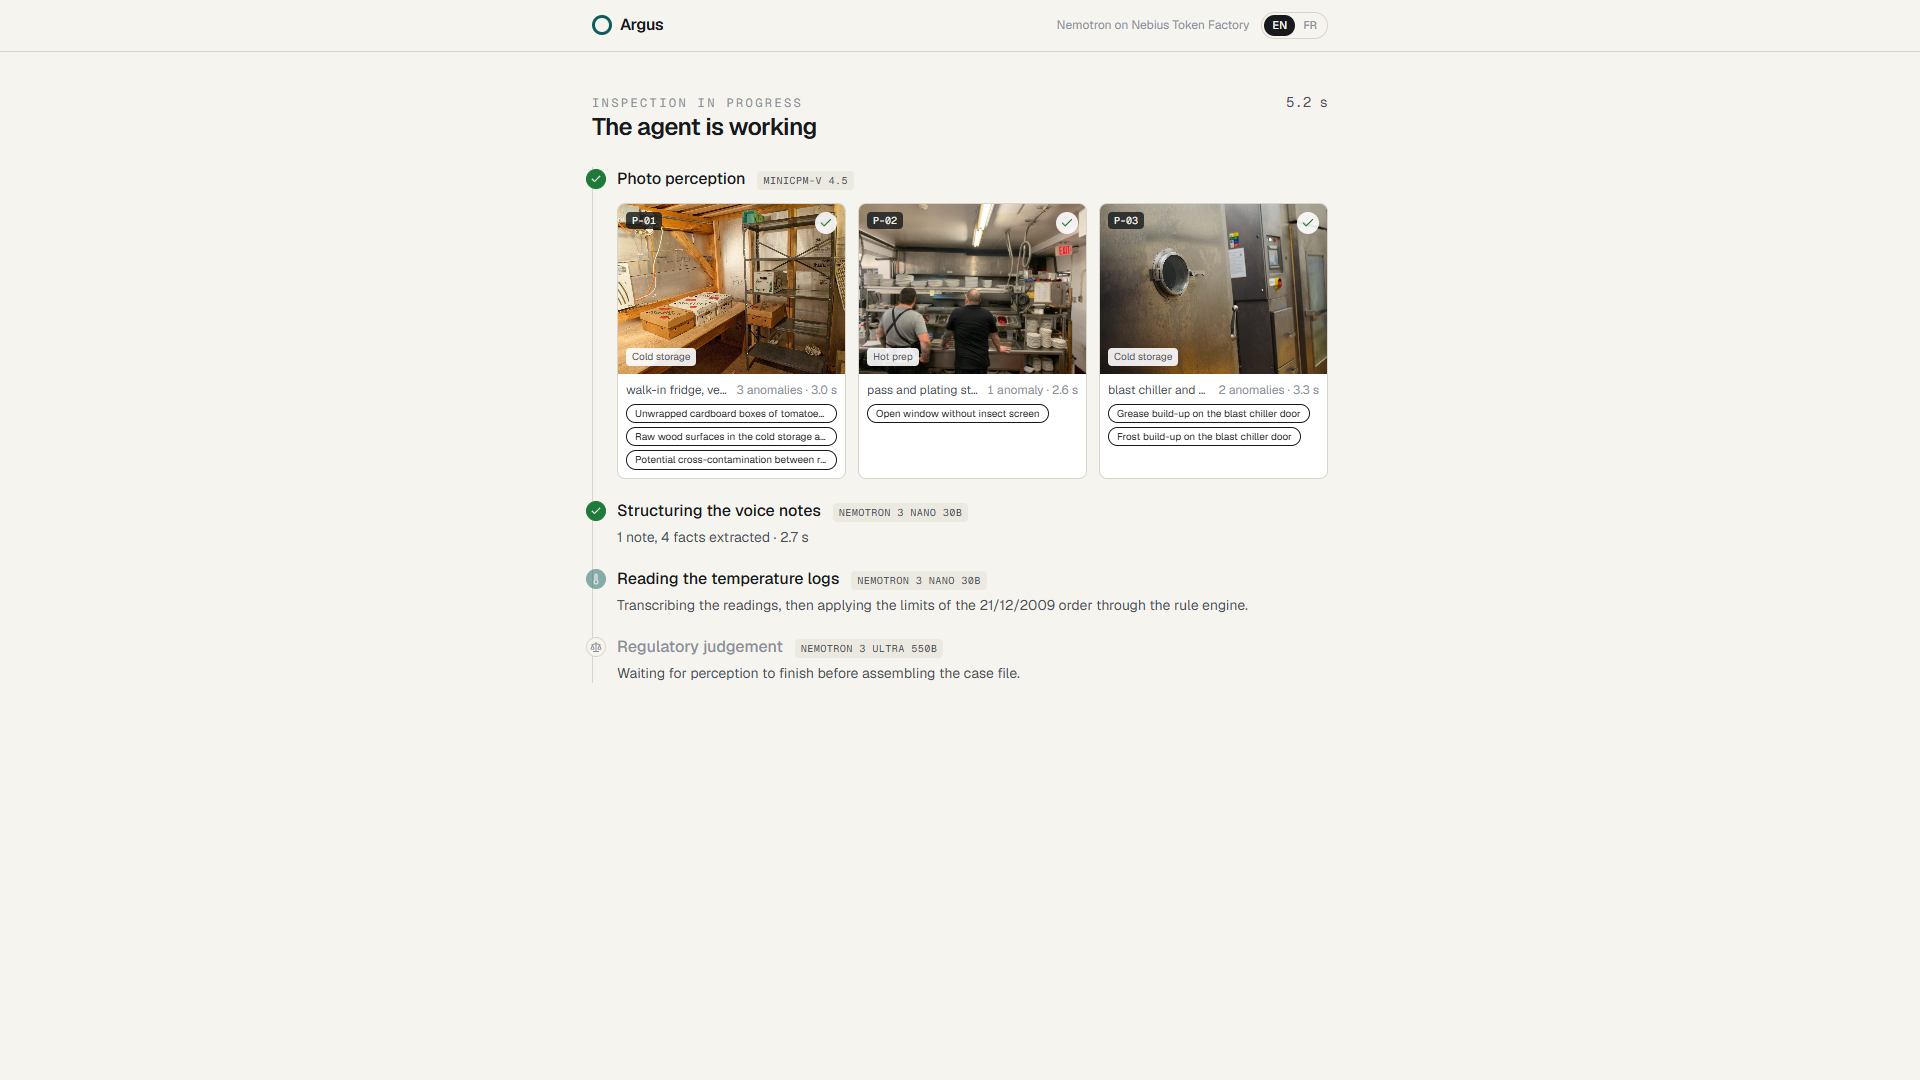
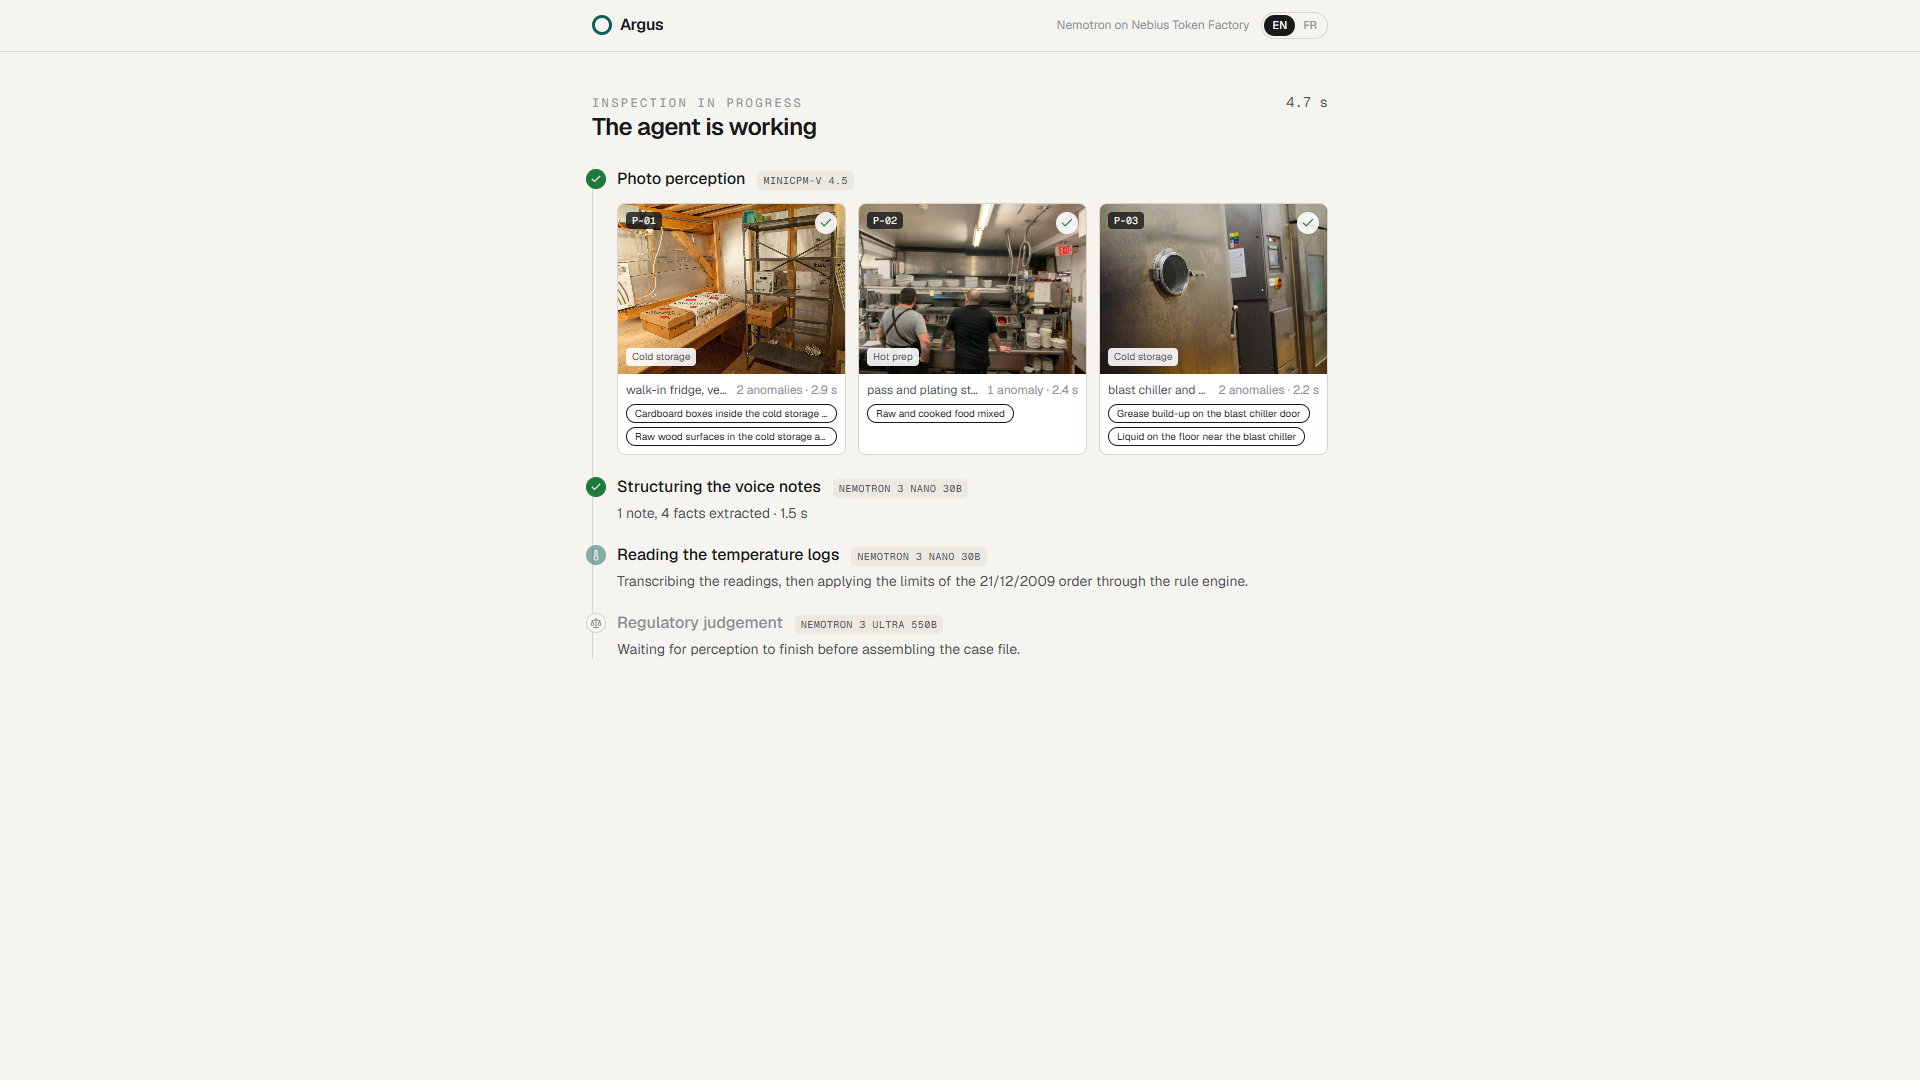
Fix severity colour tokens: theme names matched the old French class names, badges rendered without background

Changed region(s): [[0.2812, 0.3667, 0.6562, 0.6417], [0.5938, 0.3972, 0.6875, 0.4278], [0.4688, 0.3667, 0.5312, 0.3972]]

diff --git a/src/app/globals.css b/src/app/globals.css
@@ -57,9 +57,9 @@
   --color-n2: var(--n2);
   --color-n3: var(--n3);
   --color-n4: var(--n4);
-  --color-sev-mineure: var(--sev-minor);
-  --color-sev-majeure: var(--sev-major);
-  --color-sev-critique: var(--sev-critical);
+  --color-sev-minor: var(--sev-minor);
+  --color-sev-major: var(--sev-major);
+  --color-sev-critical: var(--sev-critical);
   --font-sans: var(--font-geist-sans), system-ui, sans-serif;
   --font-mono: var(--font-geist-mono), ui-monospace, monospace;
 }
